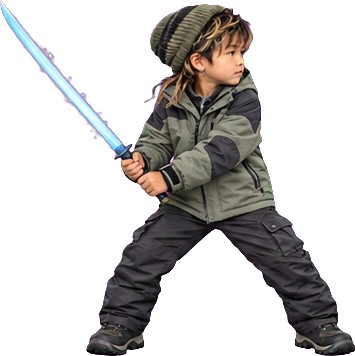
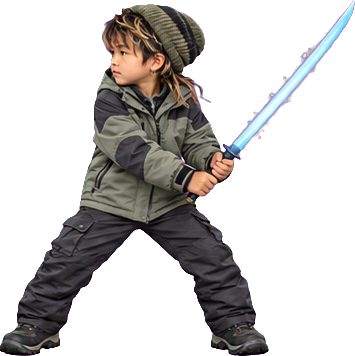
assets: シャーの構え（ready）を左右反転し、顔が敵を向くようにした

diff --git a/assets/characters/tools/README.md b/assets/characters/tools/README.md
@@ -8,9 +8,9 @@ uv run --with pillow --with numpy --with scipy python3 -I assets/characters/tool
 uv run --with pillow --with numpy --with scipy python3 -I assets/characters/tools/key_grid.py \
   assets/characters/poses/raw/nam-grid.png assets/characters/poses nam green
 uv run --with pillow --with numpy --with scipy python3 -I assets/characters/tools/key_grid.py \
-  assets/characters/poses/raw/shah-grid.png assets/characters/poses shah magenta 0
+  assets/characters/poses/raw/shah-grid.png assets/characters/poses shah magenta 0,1
 uv run --with pillow --with numpy --with scipy python3 -I assets/characters/tools/key_grid.py \
   assets/characters/poses/raw/peiko-grid.png assets/characters/poses peiko green
 ```
 
-シャーは服が緑なので背景をマゼンタにしている。ペー子の `down` だけはグリッドで倒れなかったため、`raw/peiko-down.png` を単独で生成して差し替えた。
+シャーは服が緑なので背景をマゼンタにしている。シャーの ready（1）は、刀は左でも顔が右を向いていたため反転している（反転すると顔が敵を向き、刀を頭の後ろに振りかぶった構えになる）。ペー子の `down` だけはグリッドで倒れなかったため、`raw/peiko-down.png` を単独で生成して差し替えた。
